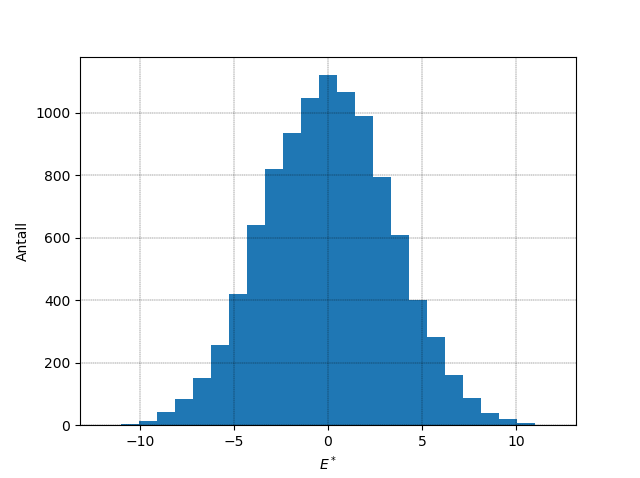
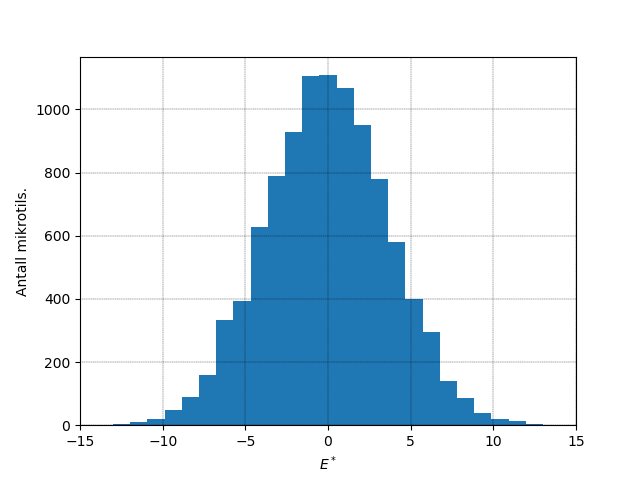
n

diff --git a/oblig2-B.py b/oblig2-B.py
@@ -29,20 +29,31 @@ plt.show()
 
 plt.hist(s, 25)
 plt.xlabel(r"$E^*$")
-plt.ylabel("Antall")
+plt.ylabel("Antall mikrotils.")
 plt.grid(color='black', linestyle = '--', linewidth = 0.25)
+plt.xlim([-15, 15])
 plt.show()
 
+plt.subplot(2, 1, 1)
+plt.hist(s, 25)
+plt.xlabel(r"$E^*$")
+plt.ylabel("Antall mikrotilstander")
+plt.grid(color='black', linestyle = '--', linewidth = 0.25)
+plt.xlim([-15, 15])
+#plt.show()
 
-'''
+
+
 def multiplis(N, s):
     return  factorial(N) / (factorial(N/2 + s) * factorial(N/2 - s))
 
-s = np.linspace(-25, 25, 1000)
-alt_multiplis = multiplis(N, 0) * np.e**(-2*s**2 / N)
+s = np.linspace(-15, 15, 500)
+alt_multiplis = 2**N * np.e**(-2*s**2 / N)
 
-#plt.subplot(2, 1, 2)
-plt.plot(alt_multiplis)
-
+plt.subplot(2, 1, 2)
+plt.plot(s, alt_multiplis)
+plt.grid(color='black', linestyle = '--', linewidth = 0.25)
+plt.xlabel("s")
+plt.ylabel(r"$\Omega(50, s)$")
+plt.xlim([-15, 15])
 plt.show()
-'''
